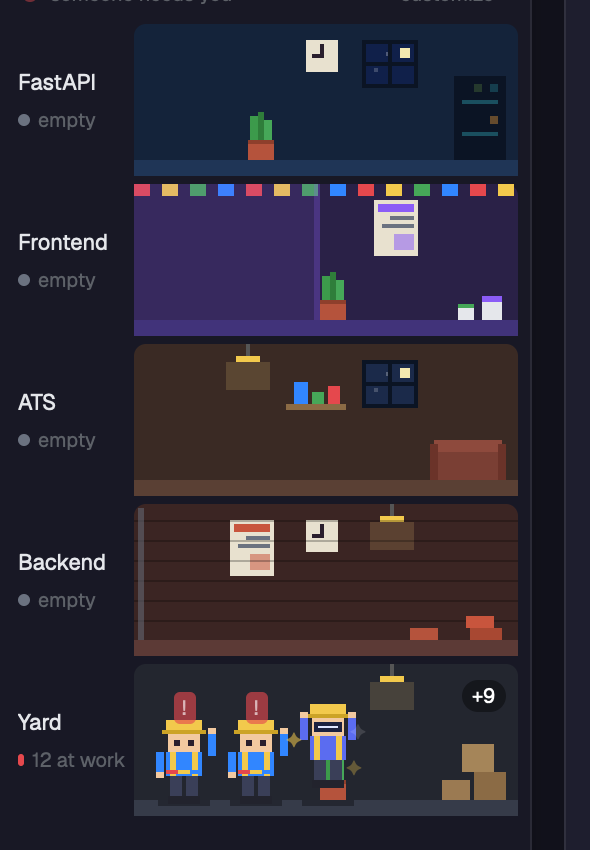
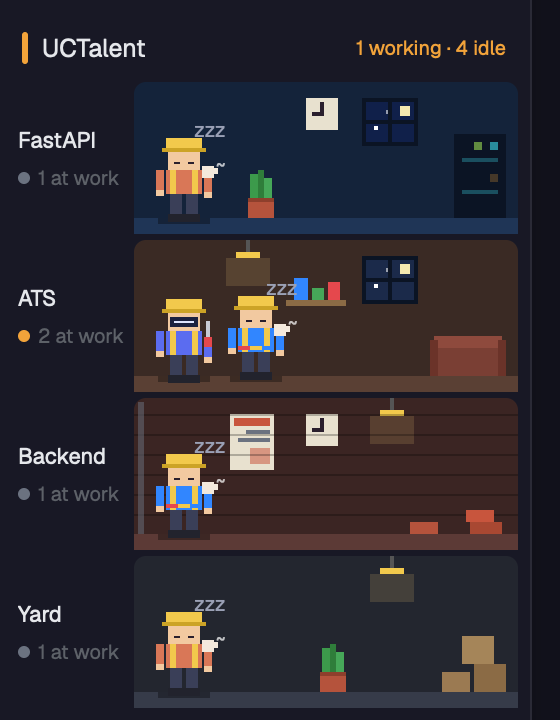
One section per workspace; floors only for UCTalent and only with agents; no Yard section

diff --git a/mods/uc-site/main.js b/mods/uc-site/main.js
@@ -1,9 +1,9 @@
-// The UCTalent building: one floor per area, one worker per agent.
-// A worker's floor comes from its terminal's folder; its pose from the agent's status.
+// One section per workspace. The workspace(s) named in `splitSpaces` (UCTalent) are split into floors by repo and
+// show only the floors that have an agent; every other workspace is a single room. A worker exists only for a live agent.
 
-import { View, div, image } from "gpui-kit";
+import { View, div, image, svg } from "gpui-kit";
 import { h_flex, v_flex } from "gpui-base";
-import { agents, panes, terminals, theme, run, exec, hc, window } from "herdr";
+import { agents, panes, spaces, terminals, theme, run, exec, hc, window } from "herdr";
 import { worker, W, H } from "./sprites.js";
 import { decor } from "./decor.js";
 import { DEFAULTS, load, ensureFile, path, matchFloor, fallbackFloor, screenFloor, isReview, looks } from "./config.js";
@@ -11,6 +11,7 @@ import { DEFAULTS, load, ensureFile, path, matchFloor, fallbackFloor, screenFloo
 const FLOOR_H = 76, LABEL_W = 58, SLOT = 36, WAIT_MS = 60 * 1000;
 const COLOR = { blocked: "#E5484D", done: "#46A758", working: "#F2A33A", idle: "#6B7280" };
 const RANK = { blocked: 4, done: 3, working: 2, idle: 1 };
+const WORDS = { blocked: "needs you", working: "working", done: "done", idle: "idle" };
 const POSE_LABEL = { working: "working", review: "reviewing", blocked: "needs you", waiting: "still waiting for you", done: "done", idle: "idle", empty: "out of tokens" };
 const SPEED = { off: 0, slow: 1.6, normal: 1, fast: 0.6 };
 
@@ -18,6 +19,8 @@ const since = (ms) => {
   const m = Math.floor(ms / 60000);
   return m < 1 ? "<1m" : m < 60 ? `${m}m` : `${Math.floor(m / 60)}h`;
 };
+const hash = (s) => [...String(s)].reduce((h, c) => (h * 31 + c.charCodeAt(0)) >>> 0, 7);
+const isSplit = (cfg, name) => cfg.splitSpaces.some((w) => String(name).toLowerCase().includes(String(w).toLowerCase()));
 
 export default class Site extends View {
   init(_props, cx) {
@@ -32,13 +35,14 @@ export default class Site extends View {
     reload(cx);
     cx.timer.every(4000, reload);
     cx.timer.every(15000, (cx) => cx.notify()); // ages "needs you" into "still waiting"
-    // Agents started above the repos (cwd names no floor) are placed by what is on their screen.
+    // In a split workspace, an agent whose folder names no floor (started above the repos) is placed by its screen.
     this.screen = new Map(); // address -> { id, at }
     const scan = (cx) => cx.spawn(async (cx) => {
       const where = new Map(panes().map((p) => [p.pane, p]));
+      const split = new Set(spaces().filter((s) => isSplit(this.cfg, s.name)).map((s) => s.id));
       let changed = false;
       for (const a of agents()) {
-        if (matchFloor(this.cfg, where.get(a.pane)?.cwd)) continue;
+        if (!split.has(a.space) || matchFloor(this.cfg, where.get(a.pane)?.cwd)) continue;
         const prev = this.screen.get(a.address);
         if (prev && Date.now() - prev.at < (a.status === "working" ? 10000 : 30000)) continue;
         const out = await hc(["read", a.address, "--lines", "150"]).catch(() => null);
@@ -60,38 +64,52 @@ export default class Site extends View {
     return a.status;
   }
 
-  figure(a, info, pose, floor, m) {
+  figure(c, x, f, m) {
+    const { a, info, pose } = c;
     const sp = looks(this.cfg, a.program?.key ?? a.app);
     const own = sp.images?.[pose] ?? sp.image;
-    const body = own ? image(own).w(W).h(H) : worker(sp, pose, floor.tool, floor.paint, m);
-    return div().id(`w-${a.address}`).absolute().left(info.x).top(info.y).w(W).h(H).cursor_pointer()
+    const body = own ? image(own).w(W).h(H) : worker(sp, pose, f.tool, f.paint, m);
+    return div().id(`w-${a.address}`).absolute().left(x).top(FLOOR_H - 8 - H + 2).w(W).h(H).cursor_pointer()
       .tooltip(`${a.program?.name || "agent"} · ${POSE_LABEL[pose]} · ${since(Date.now() - info.at)}`)
       .on_click(() => run("pane.focus", { pane: a.pane })).child(body);
   }
 
-  floorRow(f, crew, t, m) {
-    const cap = Math.max(1, Math.floor((this.width - LABEL_W - 36) / SLOT));
-    const shown = crew.length > cap ? crew.slice(0, cap - 1) : crew;
+  // A room: wall, floor line, props, then the workers (the last slot becomes "+N" when they don't all fit).
+  room(f, crew, cap, m) {
+    const shown = crew.length > cap ? crew.slice(0, Math.max(1, cap - 1)) : crew;
     const more = crew.length - shown.length;
-    const top = crew.reduce((s, c) => (RANK[c.a.status] > RANK[s] ? c.a.status : s), "idle");
-    const bg = f.background && !String(f.background).startsWith("#") ? image(f.background).absolute().left(0).top(0).w_full().h_full() : null;
-    const room = div().relative().flex_1().h_full().overflow_hidden().rounded(6).bg(!f.background || !String(f.background).startsWith("#") ? f.wall : f.background)
-      .when(Boolean(bg), (el) => el.child(bg))
+    const solid = f.background && String(f.background).startsWith("#");
+    const room = div().relative().flex_1().min_w(0).h(FLOOR_H).overflow_hidden().rounded(6).bg(solid ? f.background : f.wall)
+      .when(Boolean(f.background) && !solid, (el) => el.child(image(f.background).absolute().left(0).top(0).w_full().h_full()))
       .children(decor(f, m))
       .child(div().absolute().left(0).top(FLOOR_H - 8).w_full().h(8).bg(f.floor));
-    shown.forEach((c, i) => {
-      c.info.x = 10 + i * SLOT;
-      c.info.y = FLOOR_H - 8 - H + 2;
-      room.child(this.figure(c.a, c.info, c.pose, f, m));
-    });
+    shown.forEach((c, i) => room.child(this.figure(c, 10 + i * SLOT, f, m)));
     if (more > 0) room.child(div().absolute().right(6).top(8).px(5).rounded(8).bg("#00000066").text_size(10).text_color("#fff").child(`+${more}`));
+    return room;
+  }
+
+  floorRow(f, crew, t, m) {
+    const top = crew.reduce((s, c) => (RANK[c.a.status] > RANK[s] ? c.a.status : s), "idle");
     return h_flex().h(FLOOR_H).flex_none().gap(4).items_center()
       .child(v_flex().w(LABEL_W).flex_none().gap(2).pl(4)
         .child(div().text_size(11).font_semibold().text_color(t.foreground).truncate().child(f.name))
-        .child(h_flex().gap(4).items_center()
-          .child(div().size(6).rounded_full().bg(crew.length ? COLOR[top] : COLOR.idle))
-          .child(div().text_size(10).text_color(t.dim).child(crew.length ? `${crew.length} at work` : "empty"))))
-      .child(room);
+        .child(h_flex().gap(4).items_center().child(div().size(6).rounded_full().bg(COLOR[top]))
+          .child(div().text_size(10).text_color(t.dim).child(`${crew.length} at work`))))
+      .child(this.room(f, crew, Math.max(1, Math.floor((this.width - LABEL_W - 36) / SLOT)), m));
+  }
+
+  header(s, roof, crew, t) {
+    const counts = {};
+    for (const c of crew) counts[c.a.status] = (counts[c.a.status] ?? 0) + 1;
+    const order = ["blocked", "working", "done", "idle"].filter((k) => counts[k]);
+    return h_flex().id(`site-${s.id}`).h(28).flex_none().px(6).gap(7).items_center().rounded(6).cursor_pointer()
+      .when(s.active, (el) => el.bg(t.selected)).when(!s.active, (el) => el.hover((x) => x.bg(t.hover)))
+      .on_click(() => run("space.select", { id: s.id }))
+      .child(div().w(3).h(16).rounded(2).flex_none().bg(roof))
+      .child(div().text_size(12.5).font_semibold().text_color(t.foreground).truncate().child(s.name))
+      .child(div().flex_1())
+      .child(div().flex_none().text_size(10).text_color(order.length && order[0] !== "idle" ? COLOR[order[0]] : t.dim)
+        .child(order.length ? order.map((k) => `${counts[k]} ${WORDS[k]}`).join(" · ") : "empty"));
   }
 
   render() {
@@ -99,39 +117,61 @@ export default class Site extends View {
     const { cfg } = this;
     const m = { k: SPEED[cfg.motion] ?? 1 };
     const now = Date.now();
-    const cwd = new Map(panes().map((p) => [p.pane, p]));
+    const where = new Map(panes().map((p) => [p.pane, p]));
     const ctx = new Map(terminals().flatMap((k) => {
       const v = Number.parseInt(k.labels?.["claude.context"], 10);
       return Number.isFinite(v) ? [[k.address, v]] : [];
     }));
 
-    const byFloor = new Map(cfg.floors.map((f) => [f.id, []]));
+    // Every live agent, with how long it has been in its state, its pose and (in split workspaces) its floor.
+    const bySpace = new Map();
     for (const a of agents()) {
-      const p = cwd.get(a.pane);
+      const p = where.get(a.pane);
       const prev = this.seen.get(a.address);
       const rec = prev?.status === a.status ? prev : { status: a.status, at: now };
       this.seen.set(a.address, rec);
-      const info = { at: rec.at, cwd: p?.cwd, branch: p?.branch, pct: ctx.get(a.address) ?? null, x: 0, y: 0 };
-      const f = matchFloor(cfg, p?.cwd) ?? cfg.floors.find((x) => x.id === this.screen.get(a.address)?.id) ?? fallbackFloor(cfg);
-      byFloor.get(f.id).push({ a, info, pose: this.pose(a, info, now) });
+      const info = { at: rec.at, cwd: p?.cwd, pct: ctx.get(a.address) ?? null };
+      const list = bySpace.get(a.space) ?? [];
+      list.push({ a, info, pose: this.pose(a, info, now) });
+      bySpace.set(a.space, list);
     }
-    for (const crew of byFloor.values()) crew.sort((x, y) => RANK[y.a.status] - RANK[x.a.status] || y.a.seq - x.a.seq);
 
-    const alarm = [...byFloor.values()].some((c) => c.some((w) => w.a.status === "blocked"));
+    const sections = [];
+    let alarm = false;
+    for (const s of spaces()) {
+      const crew = (bySpace.get(s.id) ?? []).sort((x, y) => RANK[y.a.status] - RANK[x.a.status] || y.a.seq - x.a.seq);
+      alarm ||= crew.some((c) => c.a.status === "blocked");
+      const own = cfg.spaces[s.name] ?? {};
+      const room = { ...cfg.rooms[hash(s.name) % cfg.rooms.length], ...own };
+      const section = v_flex().gap(3).flex_none().child(this.header(s, room.roof, crew, t));
+      if (isSplit(cfg, s.name)) {
+        const byFloor = new Map(cfg.floors.map((f) => [f.id, []]));
+        for (const c of crew) {
+          const f = matchFloor(cfg, c.info.cwd) ?? cfg.floors.find((x) => x.id === this.screen.get(c.a.address)?.id) ?? fallbackFloor(cfg);
+          byFloor.get(f.id).push(c);
+        }
+        for (const f of cfg.floors) if (byFloor.get(f.id).length) section.child(this.floorRow(f, byFloor.get(f.id), t, m));
+      } else if (crew.length) {
+        section.child(h_flex().h(FLOOR_H).flex_none().px(0)
+          .child(this.room({ id: s.id, name: s.name, ...room }, crew, Math.max(1, Math.floor((this.width - 24) / SLOT)), m)));
+      }
+      sections.push(section);
+    }
+
     let beacon = div().size(8).rounded_full().bg(alarm ? COLOR.blocked : "#46A758");
     if (alarm && m.k) beacon = beacon.loop("opacity", { from: 0.2, to: 1, period: 600 * m.k });
-
     const roof = h_flex().h(22).flex_none().px(6).items_center().justify_between()
       .child(h_flex().gap(6).items_center().child(beacon)
         .child(div().text_size(10).text_color(this.error ? COLOR.blocked : t.dim).child(this.error ? "uc-workspace.json is invalid" : alarm ? "someone needs you" : "all quiet")))
       .child(div().id("uc-config").px(5).rounded(4).text_size(10).text_color(t.dim).cursor_pointer().tooltip(`Customize: ${path()}`)
         .hover((s) => s.bg(t.hover).text_color(t.foreground))
         .on_click(async () => { await ensureFile(); (window()?.platform === "macos" ? exec("open", ["-t", path()]) : exec("xdg-open", [path()])).catch(() => {}); }).child("customize"));
+    const add = h_flex().id("uc-new-site").h(28).flex_none().px(6).gap(7).items_center().rounded(6).text_size(12).text_color(t.dim).cursor_pointer()
+      .hover((s) => s.bg(t.hover).text_color(t.foreground)).on_click(() => run("space.new"))
+      .child(svg("mods/uc-site/plus.svg").size(12)).child("New workspace");
 
-    return v_flex().id("uc-site").size_full().bg(t.chrome).px(6).pb(6).gap(4).overflow_y_scrollbar()
-      .on_size_change((s, cx) => { if (Math.abs(s.width - this.width) > 2) { this.width = s.width; cx.notify(); } })
-      .child(roof)
-      .children(cfg.floors.map((f) => this.floorRow(f, byFloor.get(f.id) ?? [], t, m)));
+    return v_flex().id("uc-site").size_full().bg(t.chrome).px(6).pb(6).gap(8).overflow_y_scrollbar()
+      .on_size_change((sz, cx) => { if (Math.abs(sz.width - this.width) > 2) { this.width = sz.width; cx.notify(); } })
+      .child(roof).children(sections).child(add);
   }
 }
-

diff --git a/mods/uc-site/config.js b/mods/uc-site/config.js
@@ -5,6 +5,17 @@ import { appHome, readTextFile, writeTextFile } from "herdr";
 
 export const DEFAULTS = {
   motion: "normal", // off | slow | normal | fast
+  // Workspaces (spaces) whose name contains one of these are split into floors by repo; every other workspace is one room.
+  splitSpaces: ["uctalent"],
+  // Rooms of the other workspaces: picked by a hash of the workspace name. Override one by name in `spaces`:
+  //   "spaces": { "capstone1": { "roof": "#F2A33A", "wall": "#2D2433", "floor": "#4A3A55", "decor": "crates", "props": ["poster"], "tool": "box" } }
+  rooms: [
+    { roof: "#46A758", tool: "driver", decor: "furniture", props: ["window", "plant", "lamp"], wall: "#1F2F2A", floor: "#2F4A40", paint: "#46A758" },
+    { roof: "#F2A33A", tool: "box", decor: "crates", props: ["bunting", "poster", "clock"], wall: "#2D2433", floor: "#4A3A55", paint: "#F2A33A" },
+    { roof: "#37C5D6", tool: "solder", decor: "circuit", props: ["window", "shelf", "rug"], wall: "#1C2B3A", floor: "#2E4A66", paint: "#37C5D6", sky: "#10204A" },
+    { roof: "#E5484D", tool: "hammer", decor: "bricks", props: ["lamp", "clock", "plant"], wall: "#33262A", floor: "#553B42", paint: "#E5484D" },
+  ],
+  spaces: {},
   floors: [
     { id: "ai", screen: ["uc-backend-fastapi", "fastapi"], name: "FastAPI", tool: "solder", decor: "circuit", props: ["window", "clock", "plant"], sky: "#10204A", wall: "#14233A", floor: "#1F3556", paint: "#37C5D6", match: ["*fastapi*", "ai-*", "*-ai", "*-ai-*", "*llm*"] },
     { id: "fe", screen: ["uc-frontend-nextjs", "frontend-nextjs", "fe-uc"], name: "Frontend", tool: "roller", decor: "paint", props: ["bunting", "poster", "plant"], wall: "#2A2147", floor: "#41337A", paint: "#8B5CF6", match: ["*frontend*", "*nextjs*", "fe-*", "*-fe", "*-fe-*"] },
@@ -35,6 +46,7 @@ export const path = () => `${appHome()}/uc-workspace.json`;
 const merge = (a, b) => {
   const out = { ...a, ...b };
   out.agents = { ...a.agents, ...(b?.agents ?? {}) };
+  out.spaces = { ...a.spaces, ...(b?.spaces ?? {}) };
   if (b?.floors) {
     const byId = new Map(b.floors.map((f) => [f.id, f]));
     const known = a.floors.map((f) => ({ ...f, ...(byId.get(f.id) ?? {}) }));
@@ -54,7 +66,7 @@ export async function load() {
 
 // Makes the file (once) with the defaults so there is something to edit.
 export async function ensureFile() {
-  const body = JSON.stringify({ motion: DEFAULTS.motion, floors: DEFAULTS.floors, agents: DEFAULTS.agents, review: DEFAULTS.review, tokensOutAt: DEFAULTS.tokensOutAt }, null, 2);
+  const body = JSON.stringify({ motion: DEFAULTS.motion, splitSpaces: DEFAULTS.splitSpaces, spaces: DEFAULTS.spaces, floors: DEFAULTS.floors, agents: DEFAULTS.agents, review: DEFAULTS.review, tokensOutAt: DEFAULTS.tokensOutAt }, null, 2);
   await writeTextFile(path(), body, null).catch(() => {});
 }
 

diff --git a/RECIPE.md b/RECIPE.md
@@ -7,9 +7,9 @@ A Herdr layout. The sidebar shows the UCTalent logo (round, 30 px) with the name
 ## What you see
 
 - Sidebar 268 px wide, background `#181825`. Top row 46 px: logo `mods/uc-brand/logo.png` (purple circle with a white hexagon spiral), "UCTalent" 15 px semibold, search and fold-sidebar buttons. No subtitle.
-- Below it the Sites list (`uc-spaces`, 210 px; one card per space with a pixel building whose windows light per agent, tiny workers, a status line), then the building filling the rest, then the shipped settings footer.
-- The building: a 22 px roof row (beacon dot plus "all quiet" / "someone needs you" and a "customize" button), then five floors of 76 px, top to bottom FastAPI, Frontend, ATS, Backend, Yard. Each has a 58 px label (floor name only, status dot, "N at work" or "empty") and a rounded room with its own wall and floor color, furniture and props (windows with twinkling stars, swinging-light lamps, plants, posters, clocks, shelves, bunting).
-- Workers are 30x42 px bodies built from rectangles: helmet, face, shirt with two hi-vis stripes, trousers, boots, two arms. 36 px per slot; when a floor is full the last slot is a "+N" chip. Urgent agents are listed first.
+- Below it the building area filling the rest, then the shipped settings footer. A 22 px roof row (beacon dot, "all quiet" / "someone needs you", "customize"), then one section per workspace: a 28 px header (3 px roof-colored bar, name, status counts like "1 working · 4 idle"; click switches workspace) and its rooms, then "New workspace".
+- A workspace named in `splitSpaces` (default "uctalent") shows one 76 px floor per repo area that has an agent, top to bottom FastAPI, Frontend, ATS, Backend, Yard. Each floor has a 58 px label (floor name, status dot, "N at work") and a rounded room with wall and floor colors, furniture and props (windows with twinkling stars, swinging-light lamps, plants, posters, clocks, shelves, bunting). Other workspaces get one full-width room in the same style, its look picked by hashing the name; empty workspaces show only the header.
+- Workers are 30x42 px bodies built from rectangles: helmet, face, shirt with two hi-vis stripes, trousers, boots, two arms. 36 px per slot; a full room shows "+N". Urgent agents come first. Workers exist only for live agents.
 - Main area, tabs, file and changes panel, status bar are the shipped Herdr mods. Focus ring and accent are purple `#8b5cf6`.
 
 ## How it behaves
@@ -18,7 +18,7 @@ Floor: the innermost folder name of the agent's terminal matched against each fl
 
 ## Built from
 
-`layouts/uc-workspace.json` (a copy of a three-column layout with `uc-brand`, `uc-spaces`, `uc-site`, shipped `tabs`, `pane`, `files`, `changes`, `workspace-status`). `mods/uc-brand/main.js` (logo, search via `mod.open picker`, `layout.resize` fold). `mods/uc-site/`: `main.js` (data from `agents()`, `panes()`, `terminals()`), `config.js` (defaults, glob matching, `~/.config/herdr-app/uc-workspace.json`), `sprites.js` (worker), `decor.js` (floor props). The layout depends on the herdr functions `agents`, `panes`, `terminals`, `theme`, `run`, `exec`, `readTextFile`, `writeTextFile`.
+`layouts/uc-workspace.json` (a copy of a three-column layout with `uc-brand`, `uc-site`, shipped `tabs`, `pane`, `files`, `changes`, `workspace-status`). `mods/uc-brand/main.js` (logo, search via `mod.open picker`, `layout.resize` fold). `mods/uc-site/`: `main.js` (data from `agents()`, `panes()`, `terminals()`), `config.js` (defaults, glob matching, `~/.config/herdr-app/uc-workspace.json`), `sprites.js` (worker), `decor.js` (floor props). The layout depends on the herdr functions `agents`, `panes`, `terminals`, `theme`, `run`, `exec`, `readTextFile`, `writeTextFile`.
 
 ## Watch out
 

diff --git a/README.md b/README.md
@@ -4,13 +4,11 @@ A Herdr layout: the UCTalent logo and name on top, and under it a building where
 
 ![UCTalent workspace](preview.png)
 
-## Floors
+## Workspaces and floors
 
-Top to bottom: **FastAPI**, **Frontend**, **ATS**, **Backend**, **Yard** (every other repo). An agent's floor comes from its terminal's folder name (`match` patterns in `uc-workspace.json`). Agents started above the repos, e.g. in a parent folder that holds every repo, are placed by their screen instead: every few seconds the mod reads the last 150 lines of their terminal with `hc read` and takes the floor whose `screen` words appear lowest. If nothing matches the agent stays where it was, or in the Yard. Nothing is stored or sent anywhere.
+The sidebar has one section per Herdr workspace. Workspaces whose name contains `uctalent` (`splitSpaces`) are split into floors by repo: **FastAPI**, **Frontend**, **ATS**, **Backend**, and **Yard** for every other repo. A floor appears only while it has an agent. Every other workspace is a single decorated room. A worker exists only for a live agent; there are no placeholder workers.
 
-## Sites (the spaces list)
-
-Each space is a small pixel building: its windows light up per agent (amber working, red blinking needs you, green done), tiny workers stand under its name, and one line says how many are working. No branch names.
+An agent's floor comes from its terminal's folder name (`match` patterns in `uc-workspace.json`). Agents started above the repos, e.g. in a parent folder that holds every repo, are placed by their screen instead: every few seconds the mod reads the last 150 lines of their terminal with `hc read` and takes the floor whose `screen` words appear lowest. If nothing matches the agent stays where it was, or goes to the Yard. Nothing is stored or sent anywhere. Click a workspace name to switch to it.
 
 ## Workers
 
@@ -35,7 +33,7 @@ Click a worker to focus its terminal. Hover for the agent, its state and how lon
 ```sh
 git clone https://github.com/trongkhoidev/uc-workspace
 cp uc-workspace/layouts/uc-workspace.json ~/.config/herdr-app/layouts/
-cp -R uc-workspace/mods/uc-brand uc-workspace/mods/uc-spaces uc-workspace/mods/uc-site ~/.config/herdr-app/mods/
+cp -R uc-workspace/mods/uc-brand uc-workspace/mods/uc-site ~/.config/herdr-app/mods/
 herdr-app do layout.switch --name uc-workspace
 ```
 
@@ -46,6 +44,8 @@ herdr-app do layout.switch --name uc-workspace
 Click **customize** on the roof. It creates `~/.config/herdr-app/uc-workspace.json` with the defaults and opens it; edits apply within a few seconds.
 
 - `motion`: `off`, `slow`, `normal`, `fast`
+- `splitSpaces[]`: workspace names (substring, any case) that are split into floors
+- `spaces{}`: per workspace name, override its room: `roof`, `wall`, `floor`, `decor`, `props`, `tool`; `rooms[]` holds the default looks, picked by a hash of the name
 - `floors[]`: `name`, `match` (folder-name patterns with `*`), `screen` (words that, seen on an agent's screen, put it on this floor), `tool`, `decor` (the floor's furniture: `bricks`, `paint`, `furniture`, `circuit`, `crates`, `none`), `props` (any of `window`, `lamp`, `plant`, `poster`, `clock`, `shelf`, `rug`, `bunting`), `sky` (window color), `wall`, `floor`, `paint` colors, and `background` (a color, or an image path relative to `~/.config/herdr-app`)
 - `agents{}`: `shirt`, `hat`, `scarf`, `rainbow`, `visor`, or your own pictures: `image` for every state, `images: { working, idle, ... }` per state (GIF and animated WebP play by themselves)
 - `review[]`: folder patterns that count as review
